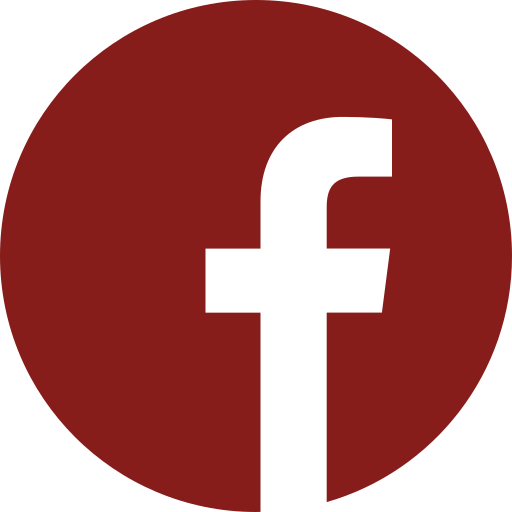
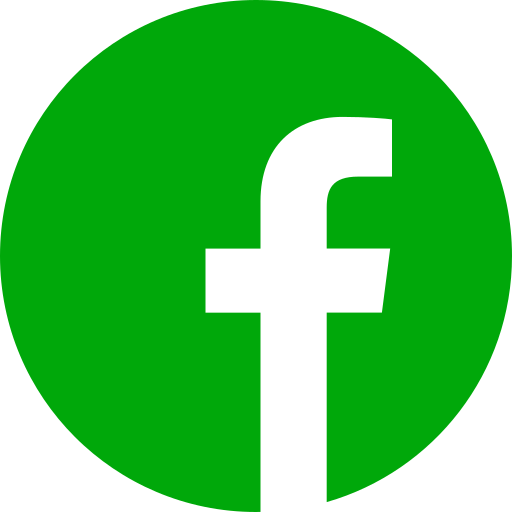
Simple Update
Alteração do Layout.
Agora a cor é vermelha.

diff --git a/css/bootstrap.css b/css/bootstrap.css
@@ -476,7 +476,7 @@ progress {
 }
 
 .espaco{
-  height: 100px;
+  height: 50px;
 }
 .celula1{
   max-height: 100px;
@@ -495,7 +495,7 @@ progress {
   max-height: 50px;
 }
 .celula-link{
-  background-color: #861d1a;
+  background-color: #40a62a;
   max-width: 300px;
   padding-top: 20px;
   padding-bottom: 20px;
@@ -507,22 +507,24 @@ progress {
 
 }
 .celula-link:hover{
-  background-color: #cf3f3a;
+  background-color: #55d439;
   box-shadow: 1px 1px 10px rgb(150, 150, 150);
   transition: all .4s;
 }
 
 .icone-contato{
+  background-color: #ffffff;
   width: 30px;
   height: 30px;
   border-radius: 20px;
   box-shadow: 1px 1px 5px black;
   margin-left: 5px;
   margin-right: 5px;
+
 }
 
 .icone-contato:hover{
-  background-color: #cf3f3a;
+  background-color: #ffffff;
   box-shadow: 1px 1px 5px rgb(150, 150, 150);
   transition: all .4s;
 }
